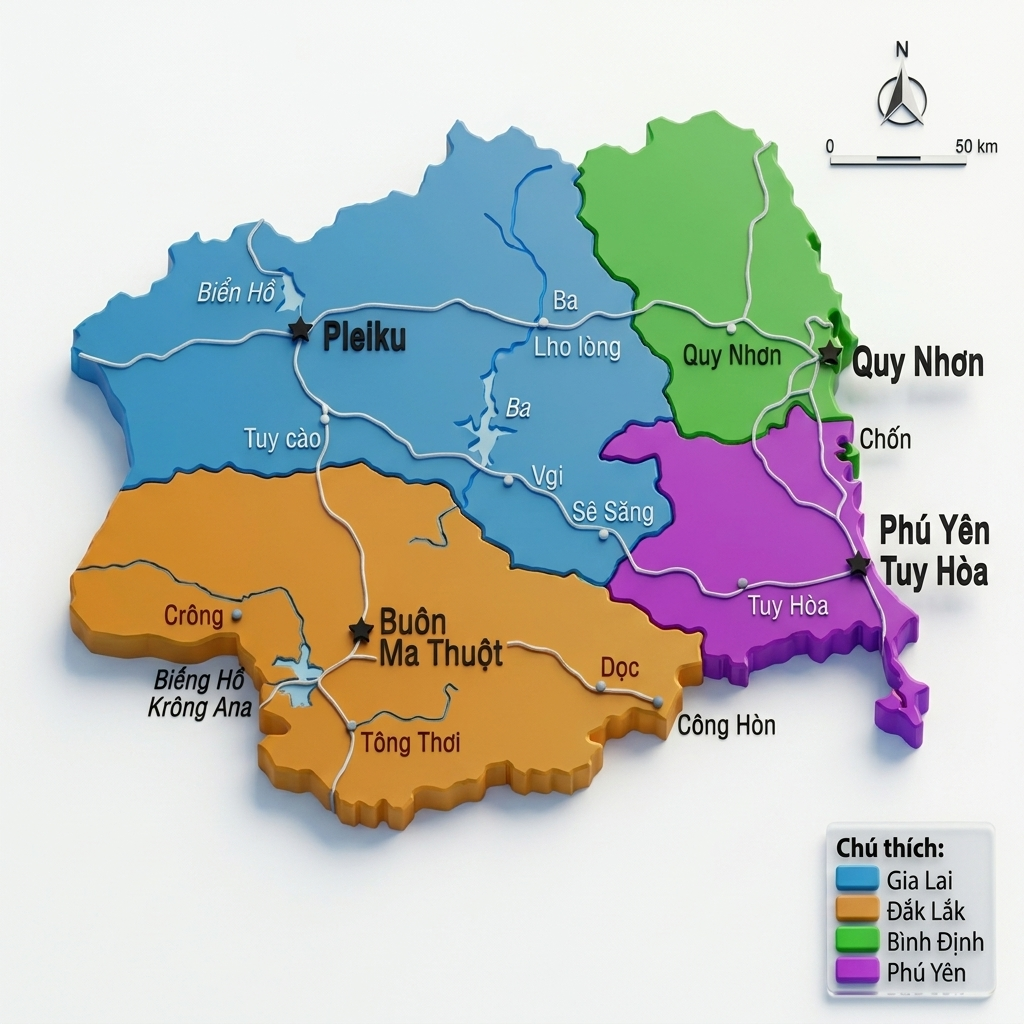
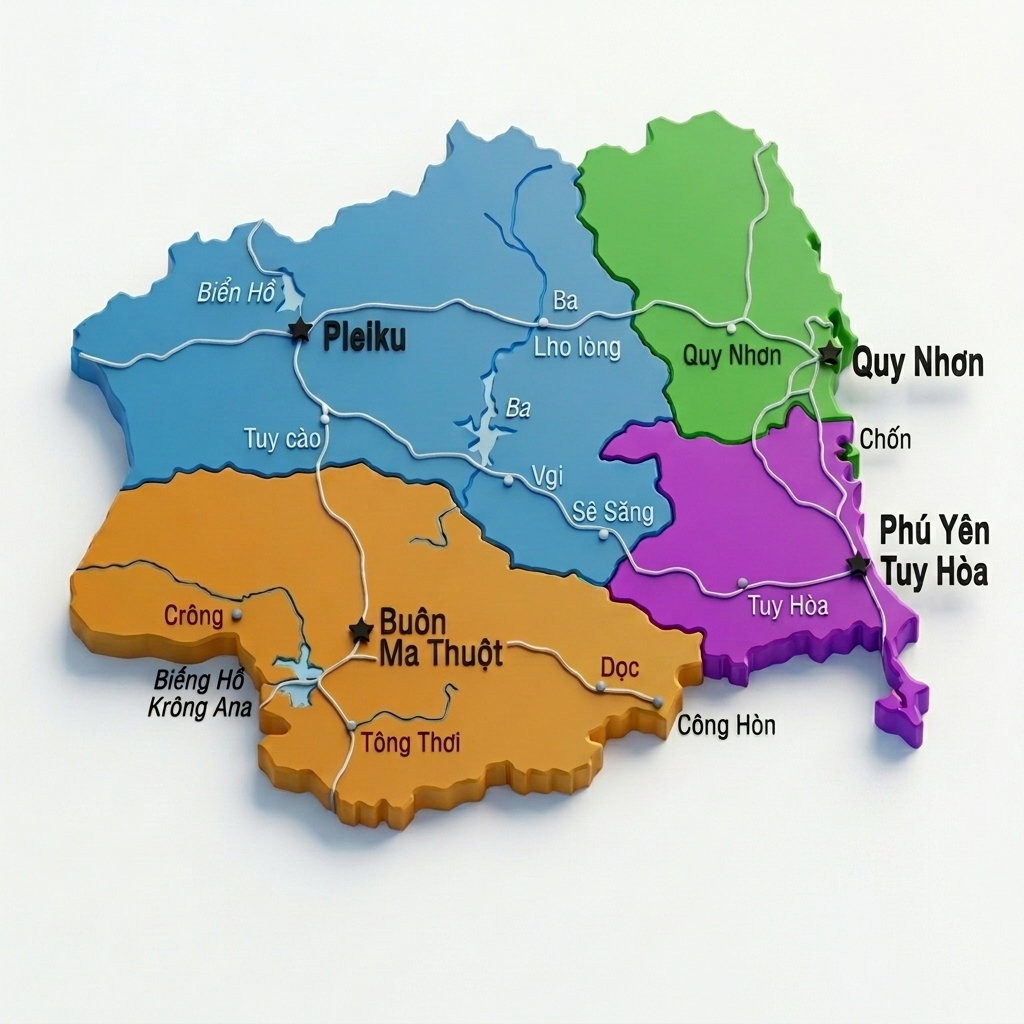
feat: new clean map no legend, full-width 380px frame, zoomed 115% to fill edges

Changed region(s): [[0.7812, 0.8125, 0.9688, 1.0], [0.8125, 0.0312, 0.9375, 0.1875], [0.9375, 0.125, 0.9688, 0.1562]]

diff --git a/build_dashboard.py b/build_dashboard.py
@@ -1049,12 +1049,12 @@ body{{font-family:'Plus Jakarta Sans',sans-serif;background:var(--bg);background
 .map-container {{
   position: relative;
   width: 100%;
-  height: 300px;
+  height: 380px;
   border-radius: 14px;
-  border: 1px solid #cbd5e1;
+  border: 1.5px solid #cbd5e1;
   overflow: hidden;
-  box-shadow: 0 8px 20px rgba(0,0,0,0.08), inset 0 1px 0 rgba(255,255,255,0.8);
-  background: #eef2f7;
+  box-shadow: 0 10px 30px rgba(0,0,0,0.10), inset 0 1px 0 rgba(255,255,255,0.9);
+  background: #f5f8fc;
 }}
 /* === Province Glow Pins (center of each province) === */
 .map-pin {{
@@ -1774,12 +1774,12 @@ th .filter-icon:hover{{opacity:1;background:rgba(255,255,255,0.2);border-radius:
       <!-- 3D Interactive Map Container -->
       <div style="width: 100%; margin-top: 8px;">
         <div class="map-container">
-          <img src="./tay_nguyen_3d_map.png" alt="Bản đồ 3D Vùng Tây Nguyên" style="width: 100%; height: 100%; object-fit: contain; object-position: center center; display: block; pointer-events: none;">
+          <img src="./tay_nguyen_3d_map.png" alt="Bản đồ 3D Vùng Tây Nguyên" style="position: absolute; top: 50%; left: 50%; width: 115%; height: 115%; transform: translate(-50%, -50%); object-fit: cover; object-position: 48% 45%; display: block; pointer-events: none;">
           
           <!-- === Province Glow Pins (center of each province) === -->
           
           <!-- Gia Lai - center of blue province -->
-          <div class="map-pin" style="top: 28%; left: 30%;" data-id="gialai" onclick="selectProvince('gialai')">
+          <div class="map-pin" style="top: 30%; left: 27%;" data-id="gialai" onclick="selectProvince('gialai')">
             <div class="pin-pulse"></div>
             <div class="pin-pulse2"></div>
             <div class="pin-dot"></div>
@@ -1787,7 +1787,7 @@ th .filter-icon:hover{{opacity:1;background:rgba(255,255,255,0.2);border-radius:
           </div>
           
           <!-- Đắk Lắk - center of orange province (Default Active) -->
-          <div class="map-pin active-pin" style="top: 63%; left: 33%;" data-id="daklak" onclick="selectProvince('daklak')">
+          <div class="map-pin active-pin" style="top: 67%; left: 32%;" data-id="daklak" onclick="selectProvince('daklak')">
             <div class="pin-pulse"></div>
             <div class="pin-pulse2"></div>
             <div class="pin-dot"></div>
@@ -1795,7 +1795,7 @@ th .filter-icon:hover{{opacity:1;background:rgba(255,255,255,0.2);border-radius:
           </div>
           
           <!-- Bình Định - center of green province -->
-          <div class="map-pin" style="top: 22%; left: 68%;" data-id="binhdinh" onclick="selectProvince('binhdinh')">
+          <div class="map-pin" style="top: 20%; left: 68%;" data-id="binhdinh" onclick="selectProvince('binhdinh')">
             <div class="pin-pulse"></div>
             <div class="pin-pulse2"></div>
             <div class="pin-dot"></div>
@@ -1803,7 +1803,7 @@ th .filter-icon:hover{{opacity:1;background:rgba(255,255,255,0.2);border-radius:
           </div>
           
           <!-- Phú Yên - center of purple province -->
-          <div class="map-pin" style="top: 53%; left: 65%;" data-id="phuyen" onclick="selectProvince('phuyen')">
+          <div class="map-pin" style="top: 56%; left: 65%;" data-id="phuyen" onclick="selectProvince('phuyen')">
             <div class="pin-pulse"></div>
             <div class="pin-pulse2"></div>
             <div class="pin-dot"></div>
@@ -1813,13 +1813,13 @@ th .filter-icon:hover{{opacity:1;background:rgba(255,255,255,0.2);border-radius:
           <!-- === City Stars (red 3D) at capital positions === -->
           
           <!-- Pleiku - Gia Lai capital -->
-          <div class="city-star" style="top: 33%; left: 41%;">
+          <div class="city-star" style="top: 36%; left: 40%;">
             <div class="city-star-icon">⭐</div>
             <div class="city-star-name">Pleiku</div>
           </div>
           
           <!-- Buôn Ma Thuột - Đắk Lắk capital -->
-          <div class="city-star" style="top: 65%; left: 44%;">
+          <div class="city-star" style="top: 70%; left: 46%;">
             <div class="city-star-icon">⭐</div>
             <div class="city-star-name">Buôn Ma Thuột</div>
           </div>
@@ -1831,7 +1831,7 @@ th .filter-icon:hover{{opacity:1;background:rgba(255,255,255,0.2);border-radius:
           </div>
           
           <!-- Tuy Hòa - Phú Yên capital -->
-          <div class="city-star" style="top: 57%; left: 75%;">
+          <div class="city-star" style="top: 58%; left: 76%;">
             <div class="city-star-icon">⭐</div>
             <div class="city-star-name">Tuy Hòa</div>
           </div>